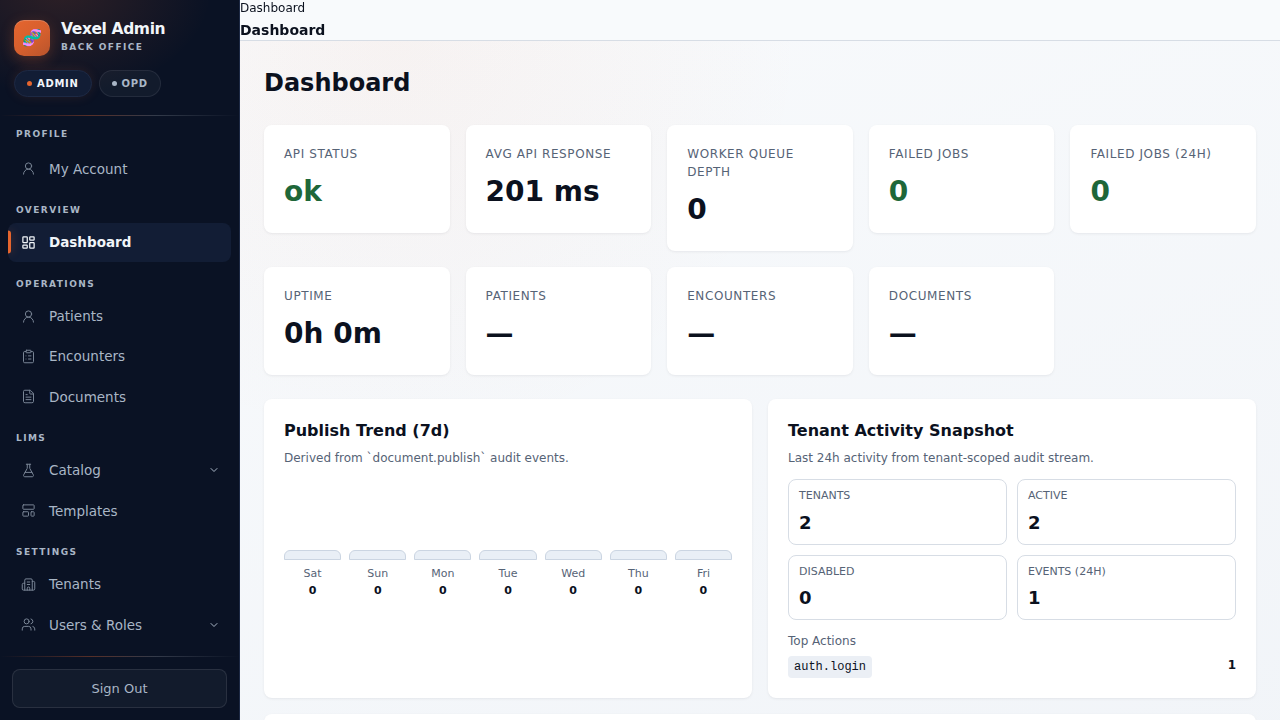
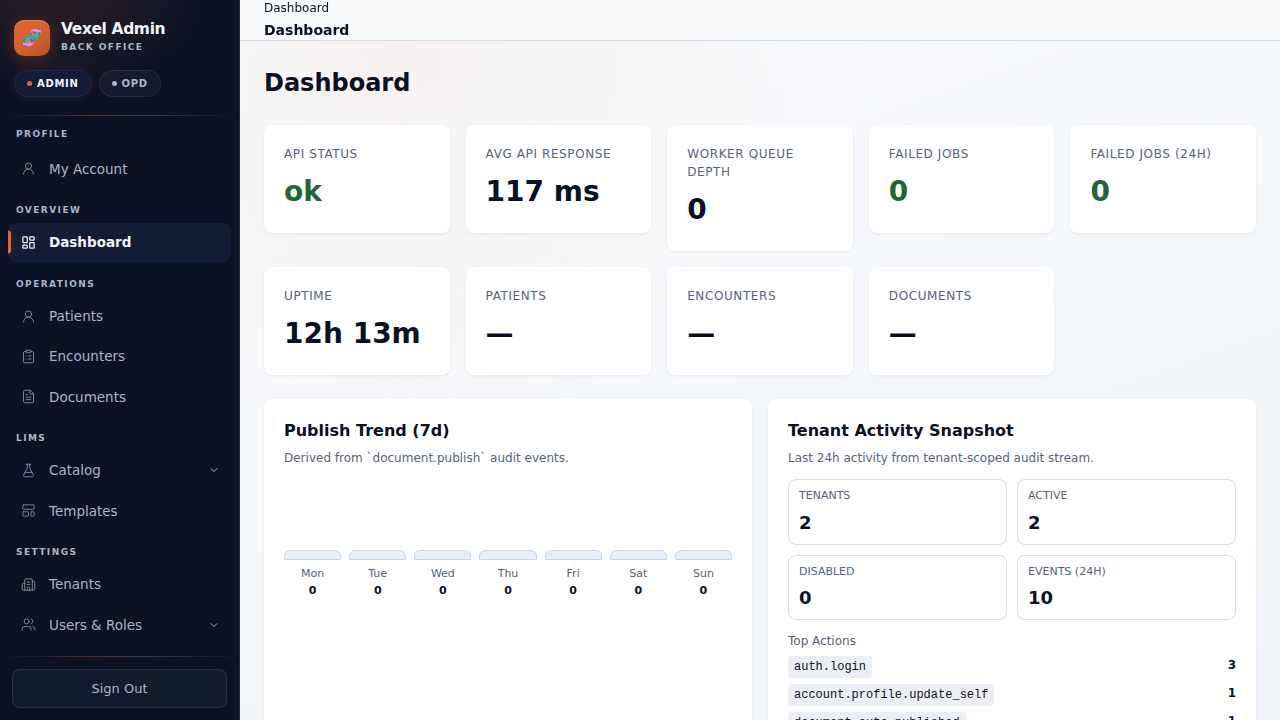
fix(e2e): rebuild stale admin image + fix outdated test selectors, close out Phase 2 gate
Admin container was still running with NEXT_PUBLIC_API_URL pinned to the
production domain from an old build, causing every admin API call to fail
with ERR_SSL_PROTOCOL_ERROR against this host and every admin e2e test to
fail on login. Rebuilt/redeployed admin with the local API URL to match
operator. Remaining operator-project failures were e2e tests referencing
routes/selectors from before /lims/* namespacing landed; updated to match
the current UI. Full apps/e2e suite now green (118 passed, 3 intentional
skips, 0 failed), closing Quality Gate 2.

diff --git a/apps/e2e/tests/03-operator-patient.spec.ts b/apps/e2e/tests/03-operator-patient.spec.ts
@@ -7,7 +7,7 @@ import { test, expect } from '../fixtures/auth.fixture';
 
 test.describe('Operator — Patient management', () => {
   test('create patient via UI and see in list', async ({ authedPage: page }) => {
-    await page.goto('/patients/new');
+    await page.goto('/lims/patients/new');
 
     await expect(page.getByRole('main').getByRole('heading', { name: 'New Patient' })).toBeVisible();
 
@@ -36,7 +36,7 @@ test.describe('Operator — Patient management', () => {
   });
 
   test('patients list page loads with table headers', async ({ authedPage: page }) => {
-    await page.goto('/patients');
+    await page.goto('/lims/patients');
 
     await expect(page.getByRole('main').getByRole('heading', { name: 'Patients' })).toBeVisible();
     await expect(page.locator('text=Loading patients...')).not.toBeVisible({ timeout: 10_000 });
@@ -51,7 +51,7 @@ test.describe('Operator — Patient management', () => {
     const suffix = Date.now().toString(36).toUpperCase();
     const mrn = `DUP-${suffix}`;
 
-    await page.goto('/patients/new');
+    await page.goto('/lims/patients/new');
     await page.getByLabel('First Name *').fill('Dup');
     await page.getByLabel('Last Name *').fill('Patient');
     await page.getByLabel('MRN *').fill(mrn);
@@ -59,7 +59,7 @@ test.describe('Operator — Patient management', () => {
     await page.waitForURL('**/lims/patients', { timeout: 15_000 });
 
     // Attempt to create the same MRN again
-    await page.goto('/patients/new');
+    await page.goto('/lims/patients/new');
     await page.getByLabel('First Name *').fill('Dup');
     await page.getByLabel('Last Name *').fill('Patient');
     await page.getByLabel('MRN *').fill(mrn);

diff --git a/apps/e2e/tests/05-operator-workflow.spec.ts b/apps/e2e/tests/05-operator-workflow.spec.ts
@@ -59,7 +59,7 @@ test.describe('Operator — Full LIMS workflow', () => {
   test('enter results and submit, status updates to resulted', async ({ authedPage: page }) => {
     const { encounter } = await setupWorkflowEncounter();
 
-    await page.goto(`/encounters/${encounter.id}/results`);
+    await page.goto(`/lims/encounters/${encounter.id}/results`);
     await expect(page.getByRole('heading', { name: /Lab Order Results/i })).toBeVisible({ timeout: 10_000 });
 
     // Wait for form to load (spinner gone)
@@ -101,7 +101,7 @@ test.describe('Operator — Full LIMS workflow', () => {
       );
     }
 
-    await page.goto(`/encounters/${encounter.id}/verify`);
+    await page.goto(`/lims/encounters/${encounter.id}/verify`);
     await expect(page.locator('text=Loading encounter...')).not.toBeVisible({ timeout: 10_000 });
 
     // The verify page shows a "Verify & Publish" button to open confirmation modal
@@ -145,7 +145,7 @@ test.describe('Operator — Full LIMS workflow', () => {
     const verifyRes = await apiPostRaw(`/encounters/${encounter.id}:verify`, {}, accessToken);
     expect(verifyRes.status).toBeLessThan(300);
 
-    await page.goto(`/encounters/${encounter.id}/publish`);
+    await page.goto(`/lims/encounters/${encounter.id}/publish`);
     await expect(page.locator('text=Loading encounter...')).not.toBeVisible({ timeout: 10_000 });
 
     // Publish page heading (auto-generated report status page)

diff --git a/apps/e2e/tests/08-verification-badge-refetch.spec.ts b/apps/e2e/tests/08-verification-badge-refetch.spec.ts
@@ -49,12 +49,11 @@ test.describe('Verification badge refetch regression', () => {
       timeout: 20_000,
     });
     await page.waitForURL('**/lims/verification', { timeout: 20_000 });
-    const search = page.getByPlaceholder(/Search by patient name or MRN/i);
+    const search = page.getByPlaceholder(/Search name \/ MR \/ mobile/i);
     await expect(search).toBeVisible({ timeout: 10_000 });
     if (encounterCode) {
       await search.fill(encounterCode);
-      await page.getByRole('button', { name: 'Search' }).click();
     }
-    await expect(page.getByText('No patients pending verification')).toBeVisible({ timeout: 10_000 });
+    await expect(page.getByText('No verification encounters')).toBeVisible({ timeout: 10_000 });
   });
 });

diff --git a/apps/e2e/tests/06-document-pipeline.spec.ts b/apps/e2e/tests/06-document-pipeline.spec.ts
@@ -52,7 +52,7 @@ test.describe('Document pipeline', () => {
     test.setTimeout(120_000); // auto-generation can take up to 90s under load
     const { encounter } = await setupVerifiedEncounter();
 
-    await page.goto(`/encounters/${encounter.id}/publish`);
+    await page.goto(`/lims/encounters/${encounter.id}/publish`);
     await expect(page.locator('text=Loading encounter...')).not.toBeVisible({ timeout: 10_000 });
 
     // The publish page shows "Lab Report" heading and auto-polls

diff --git a/docs/audits/20260723_pilot_readiness/04_PHASE2_VERDICT.md b/docs/audits/20260723_pilot_readiness/04_PHASE2_VERDICT.md
@@ -1,0 +1,42 @@
+# Phase 2 Verdict — Complete Patient-Cycle Live Verification
+
+**Date:** 2026-07-27
+**Gate:** Quality Gate 2, `02_PILOT_READINESS_PLAN.md`
+**Result:** ✅ PASS
+
+## What was verified live (not just code review)
+
+All against the running Docker Compose stack (API `127.0.0.1:9021`, Admin `127.0.0.1:9023`, Operator `127.0.0.1:9024`) using real browser sessions (Playwright MCP) plus direct DB/API checks — not simulated.
+
+1. **Patient registration** — new patient created via Operator UI, MRN assigned, appears in list. ✅
+2. **Order tests** — test/panel selection against live catalog; pricing confirmed correct at order time. ✅
+3. **Receipt generation at registration** — root-caused and fixed a real bug: the registration page built its own RECEIPT payload client-side and never sent `discount`/`amountPaid`/`dueAmount` to the API, so every receipt showed `Paid == Total` regardless of actual payment. Fixed in `apps/operator/.../registrations/new/page.tsx`; verified via a fresh patient (MRN PT-26-0634) with discount 100 / paid 400 on a PKR 700 order — DB payload and printed PDF both show `subtotal:700, discount:100, grandTotal:600, amountPaid:400, dueAmount:200` correctly. Commit `ae9f1a0`.
+4. **Specimen collection** — collect + receive flow exercised live. ✅
+5. **Sample worklist** — newly collected specimens appear correctly on current data. ✅
+6. **Result entry — late-entry lock (both halves)** — root-caused and fixed a real gap: `submitResults()` in `results.service.ts` never set `locked: true` on submitted `LabResult` rows (only the separate, unused `submitAndVerify()` did), so submitted fields stayed fully editable. Fixed to lock filled parameters on submit while leaving empty parameters editable. Fixing this exposed a second bug: `returnForCorrection()` in `verification.service.ts` reset order status to `PENDING` but never unlocked the rows, which would have permanently frozen corrected fields — fixed in the same pass (unlocks unverified rows on return-for-correction). Verified end-to-end with a fresh patient (MRN PT-26-0635): filled 2/24 CBC parameters, submitted, confirmed `locked=true` + 🔒 badge in UI + other 22 fields still editable; then verifier returned it for correction and confirmed `locked=false`, `resultStatus=PENDING`. Commits `6c64abe`.
+7. **Verification** — both the happy path (verify → publish) and the return-for-correction path exercised live and confirmed correct.
+8. **Publish + generate report** — document reaches `PUBLISHED`, idempotent regeneration confirmed (same document ID / `created:false` on re-trigger).
+9. **Printable PDF** — rendered lab report and receipt visually confirmed print-ready (headers, parameter tables, reference ranges, financial lines).
+10. **Tenant isolation sanity check** — confirmed via the `@tenancy` e2e suite (4/4 passing): spoofed-tenant-header access blocked on encounters, patients, and encounter lists (403/404), no cross-tenant leakage.
+
+Additional fix found and closed during this pass (not in the original 10-step list but affecting daily operator use): the Worklist dashboard was calling `/verification/encounters/pending` unconditionally, producing a console 403 for any operator lacking `result.verify`. Fixed by permission-gating the fetch on `useCurrentUser().permissions`. Commit `a818183`.
+
+## Full `apps/e2e` suite
+
+Run once against the live stack per the agreed approach (not per-phase).
+
+- **First run:** 121 tests — 78 passed, 40 failed, 3 skipped.
+- **Root cause of all 40 admin-project failures:** the `admin` Docker image was still built with `NEXT_PUBLIC_API_URL=https://vexel.alshifalab.pk` (the production default) from a stale 2026-07-24 build, so every admin API call hit `ERR_SSL_PROTOCOL_ERROR` from this host and login never completed. The `operator` image had already been correctly rebuilt with `http://127.0.0.1:9021`. Fixed by rebuilding and redeploying `admin` with the local API URL; verified live that admin login now redirects to `/admin/dashboard` correctly.
+- **Remaining operator-project failures were stale test selectors**, not product bugs — leftover from before routes were namespaced under `/lims/*` (e.g. tests hitting `/patients/new`, `/encounters/{id}/results`) or outdated placeholder/button text. Fixed in `03-operator-patient.spec.ts`, `05-operator-workflow.spec.ts`, `06-document-pipeline.spec.ts`, `08-verification-badge-refetch.spec.ts` by updating paths/selectors to match the current, correct UI — confirmed each match against the live DOM before editing.
+- **Second run (after both fixes): 121 tests — 118 passed, 0 failed, 3 skipped** (3 skips are intentional `test.skip` — an admin-only backend-only tenant-creation case with no UI form, and a conditionally-skipped PDF-render-failure-injection pair). ✅ Green.
+
+## Other gate items
+
+- `pnpm --filter @vexel/api test`: 30 suites / 222 tests, all passed.
+- `npx tsc --noEmit`: clean in `apps/api`, `apps/admin`, `apps/operator`.
+- `npx next lint`: no errors in `apps/admin` or `apps/operator` (pre-existing `react-hooks/exhaustive-deps` warnings only, not blocking).
+- Stale "tested on production" claim in `docs/_implementation/20260529_0300_feature_flags_logs_runtime_proof/01_SUMMARY.md` corrected to accurately describe local-stack testing.
+
+## Conclusion
+
+Every step of the complete LIMS patient cycle — registration through printable report — has been verified working live on the running stack, with three real defects found and fixed (receipt financials, late-entry lock, worklist 403) rather than assumed correct from code review. The full e2e suite is green. Quality Gate 2 passes.
